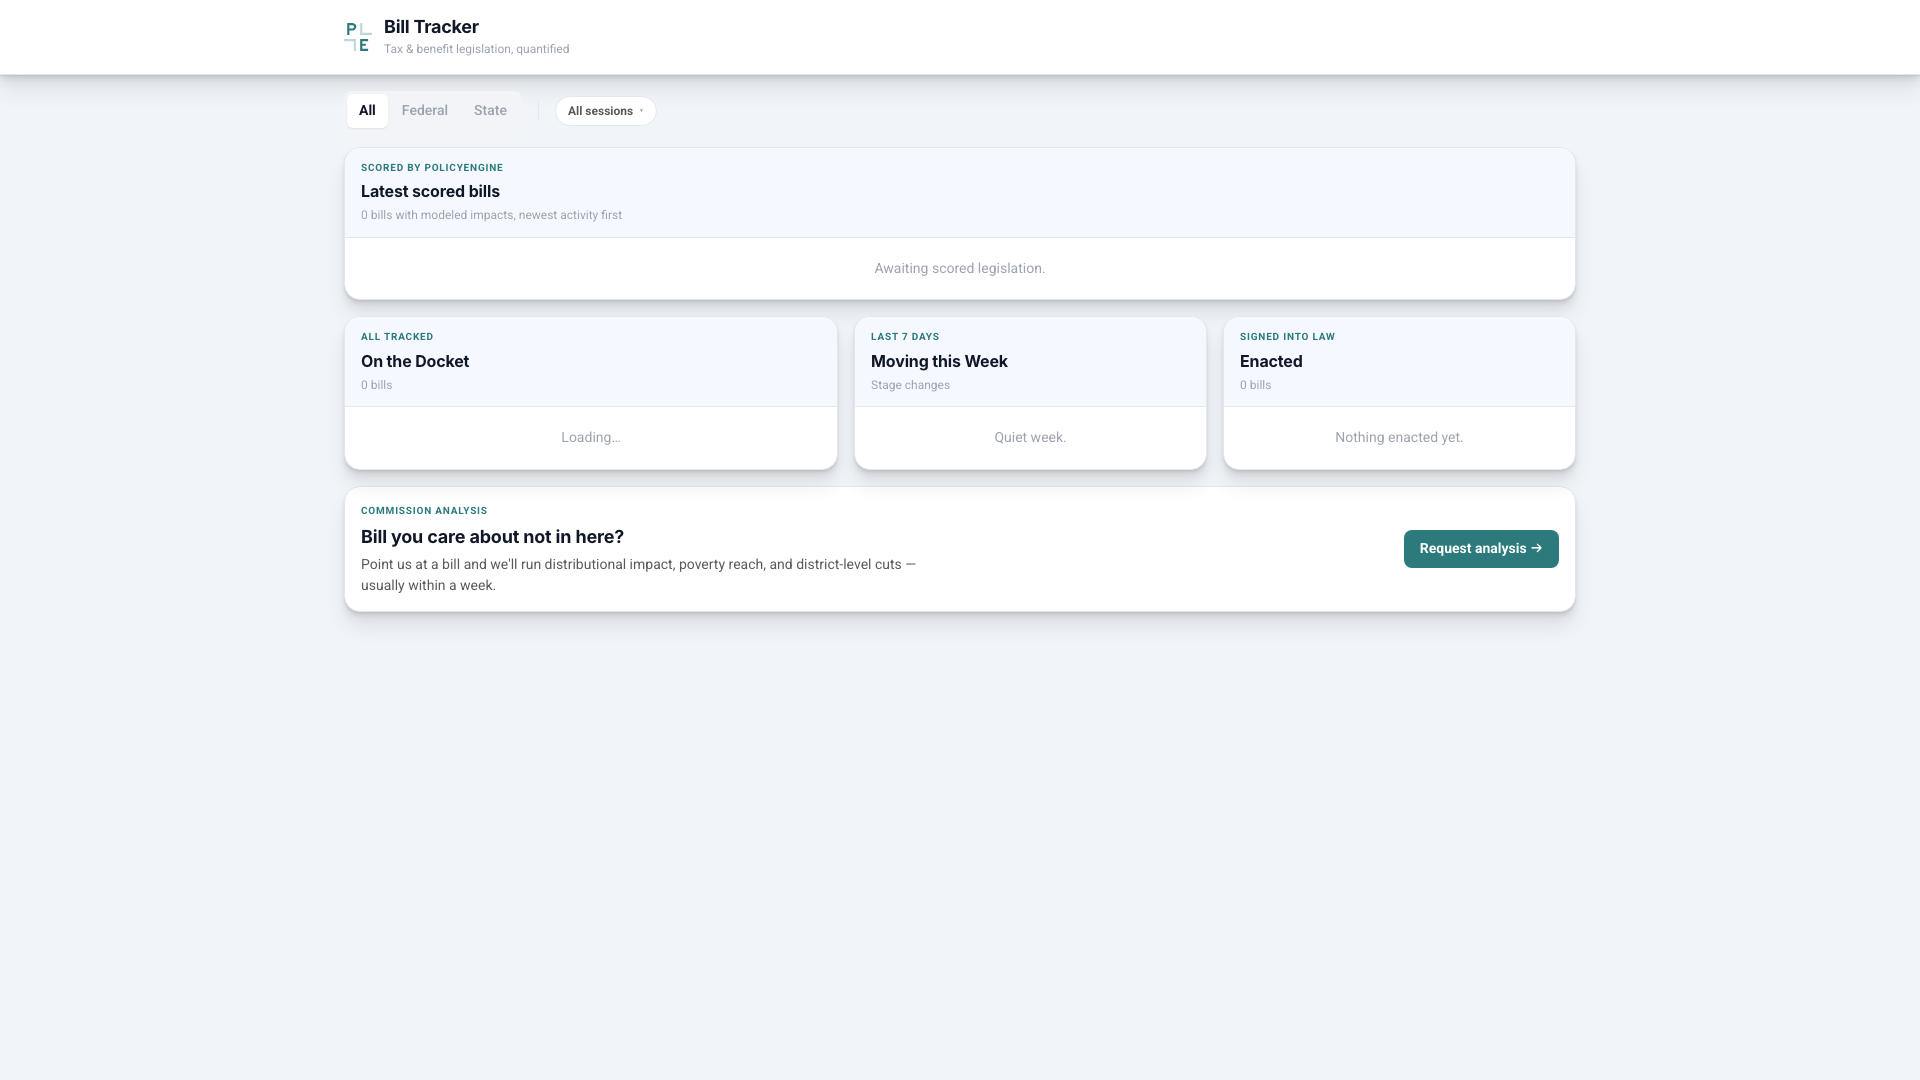
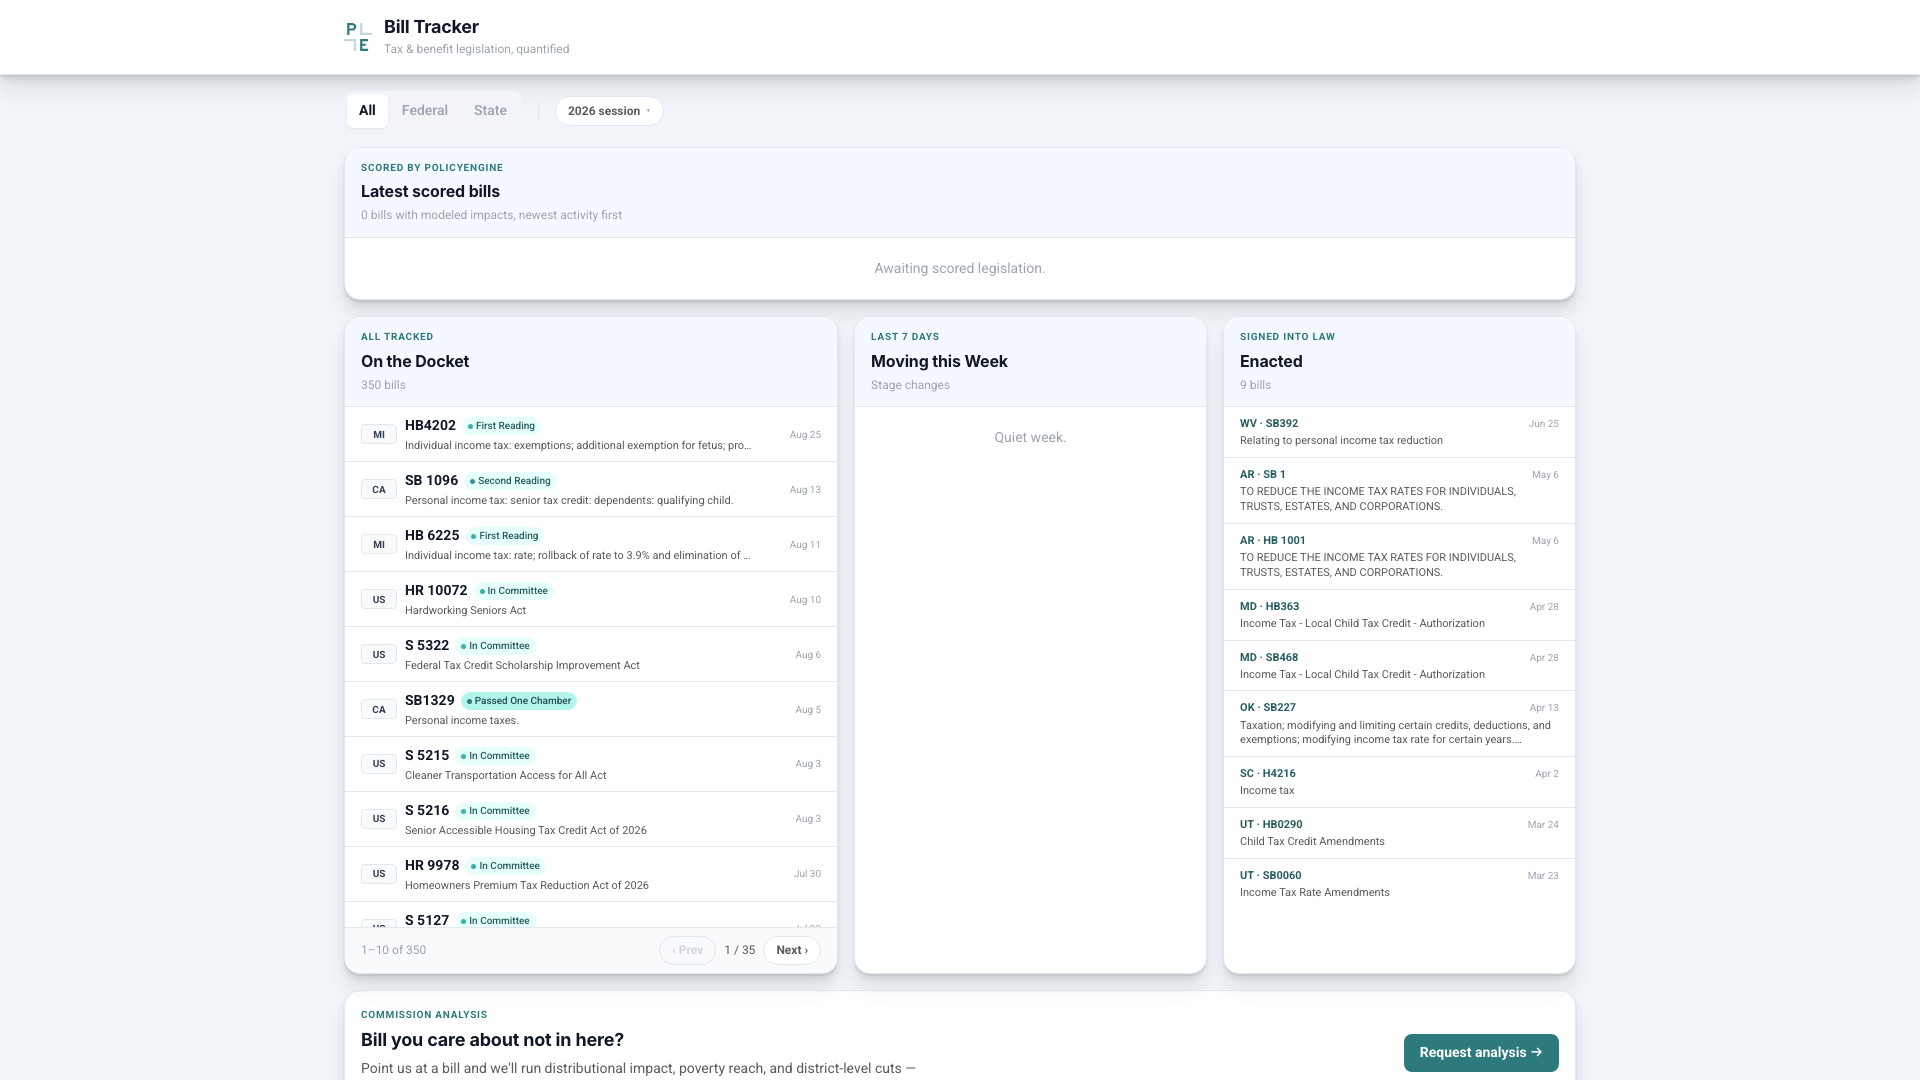
UK chat live slide, tracker recapture, craft slide fits short viewports
- New LiveAppSlide for PolicyEngine UK chat between the app and the
  state tracker.
- State tracker capture retaken after its data loaded (350 bills).
- 'The craft, scaled' uses natural flow with tighter sizes so the
  closing line no longer runs under the footer on shorter screens.

diff --git a/slideshows/gettsim-2026/slides/CraftScaledSlide.tsx b/slideshows/gettsim-2026/slides/CraftScaledSlide.tsx
@@ -38,49 +38,43 @@ export default function CraftScaledSlide() {
         <SlideTitle>The craft, scaled</SlideTitle>
       </SlideHeader>
 
-      <div className="flex flex-col justify-between h-[calc(100vh-300px)] mt-2">
-        <div>
-          <p className="text-3xl text-gray-800 leading-relaxed">
-            Building tax-benefit models has always been:
-          </p>
+      <p className="text-2xl text-gray-800 leading-relaxed">
+        Building tax-benefit models has always been:
+      </p>
 
-          <div className="mt-6 grid grid-cols-4 gap-6">
-            {craft.map((c) => (
-              <div key={c.title} className="content-card p-7 flex flex-col">
-                <c.icon size={44} stroke={1.5} className="text-pe-teal" />
-                <h3 className="text-3xl font-bold text-pe-dark mt-5">
-                  {c.title}
-                </h3>
-                <p className="text-xl text-gray-700 leading-snug mt-2">
-                  {c.detail}
-                </p>
-              </div>
-            ))}
+      <div className="mt-5 grid grid-cols-4 gap-5">
+        {craft.map((c) => (
+          <div key={c.title} className="content-card p-6 flex flex-col">
+            <c.icon size={40} stroke={1.5} className="text-pe-teal" />
+            <h3 className="text-2xl font-bold text-pe-dark mt-4">{c.title}</h3>
+            <p className="text-lg text-gray-700 leading-snug mt-1">
+              {c.detail}
+            </p>
           </div>
-        </div>
+        ))}
+      </div>
 
-        <div
-          className="rounded-2xl px-10 py-8 text-white"
-          style={{
-            background: 'linear-gradient(180deg, #1d4044 0%, #17343a 100%)',
-          }}
-        >
-          <p className="text-sm font-semibold uppercase tracking-widest text-pe-teal mb-3">
-            What changes
-          </p>
-          <p className="text-3xl leading-relaxed font-light">
-            Thousands of AI agents can now poke at every piece of that craft
-            &mdash; encoding, testing, cross-checking &mdash; at a scale no
-            individual analyst can match.
-          </p>
-        </div>
+      <div
+        className="mt-6 rounded-2xl px-9 py-6 text-white"
+        style={{
+          background: 'linear-gradient(180deg, #1d4044 0%, #17343a 100%)',
+        }}
+      >
+        <p className="text-sm font-semibold uppercase tracking-widest text-pe-teal mb-2">
+          What changes
+        </p>
+        <p className="text-2xl leading-relaxed font-light">
+          Thousands of AI agents can now poke at every piece of that craft
+          &mdash; encoding, testing, cross-checking &mdash; at a scale no
+          individual analyst can match.
+        </p>
+      </div>
 
-        <div className="accent-block">
-          <p className="text-2xl text-gray-800 leading-relaxed">
-            The question for this talk: what does that scale make possible
-            &mdash; and how do we keep the output verifiable?
-          </p>
-        </div>
+      <div className="accent-block mt-6">
+        <p className="text-xl text-gray-800 leading-relaxed">
+          The question for this talk: what does that scale make possible
+          &mdash; and how do we keep the output verifiable?
+        </p>
       </div>
     </Slide>
   );

diff --git a/slideshows/gettsim-2026/slides/DemoLiveSlides.tsx b/slideshows/gettsim-2026/slides/DemoLiveSlides.tsx
@@ -109,6 +109,40 @@ export const PEAppLiveSlide = () => (
   </LiveAppSlide>
 );
 
+export const UKChatLiveSlide = () => (
+  <LiveAppSlide
+    title="PolicyEngine UK chat, live"
+    url="https://policyengine-uk-chat.vercel.app/uk/chat"
+    displayUrl="policyengine-uk-chat.vercel.app"
+    fallbackSrc="/screenshots/gettsim-2026/uk-chat.png"
+  >
+    <div className="content-card p-5">
+      <div className="slide-tag mb-3">What you are seeing</div>
+      <p className="text-base text-gray-700 leading-relaxed">
+        A UK tax and benefit assistant: ask in plain English about a
+        household or a reform, and it runs the PolicyEngine UK model to
+        answer &mdash; with the calculation, not a guess.
+      </p>
+    </div>
+
+    <div className="content-card p-5">
+      <div className="slide-tag mb-3">Why it matters</div>
+      <p className="text-base text-gray-700 leading-relaxed">
+        The language model never computes policy itself. It calls the same
+        encoded rules and calibrated data, so every figure is reproducible
+        outside the chat.
+      </p>
+    </div>
+
+    <div className="pl-5 border-l-4 border-pe-teal mt-auto">
+      <p className="text-sm text-gray-600 leading-relaxed italic">
+        Live walkthrough &mdash; the capture is one click away if the
+        network does not cooperate.
+      </p>
+    </div>
+  </LiveAppSlide>
+);
+
 export const StateTrackerLiveSlide = () => (
   <LiveAppSlide
     title="The state legislative tracker, live"

diff --git a/slideshows/gettsim-2026/config.ts b/slideshows/gettsim-2026/config.ts
@@ -23,6 +23,7 @@ import {
   DemoAxiomLiveSlide,
   ValidationLiveSlide,
   PEAppLiveSlide,
+  UKChatLiveSlide,
   StateTrackerLiveSlide,
   ScorecardLiveSlide,
   CalibrationLiveSlide,
@@ -90,6 +91,7 @@ export const gettsim2026Config: SlideshowConfig = {
     CountryScopeSlide,
     WhoUsesItSlide,
     PEAppLiveSlide,
+    UKChatLiveSlide,
     StateTrackerLiveSlide,
     ScorecardLiveSlide,
 
